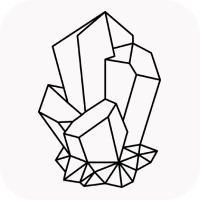
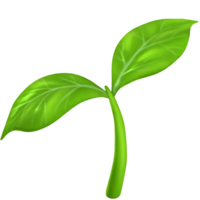
Quartz sync: Mar 17, 2025, 1:05 AM

Changed region(s): [[0.0, 0.03, 0.99, 1.0]]

diff --git a/quartz.config.ts b/quartz.config.ts
@@ -8,48 +8,48 @@ import * as Plugin from "./quartz/plugins"
  */
 const config: QuartzConfig = {
   configuration: {
-    pageTitle: "Quartz 4",
-    pageTitleSuffix: "",
+    pageTitle: "osaka's garden 🌱",
+    pageTitleSuffix: " | osaka garden",
     enableSPA: true,
     enablePopovers: true,
     analytics: {
       provider: "plausible",
     },
     locale: "en-US",
-    baseUrl: "quartz.jzhao.xyz",
+    baseUrl: "quartz.jzhao.xyz", // CHANGE LATER
     ignorePatterns: ["private", "templates", ".obsidian"],
     defaultDateType: "created",
     theme: {
       fontOrigin: "googleFonts",
       cdnCaching: true,
       typography: {
-        header: "Schibsted Grotesk",
-        body: "Source Sans Pro",
-        code: "IBM Plex Mono",
+        header: "Urbanist",
+        body: "Archivo",
+        code: "Ubuntu Mono"
       },
       colors: {
         lightMode: {
-          light: "#faf8f8",
-          lightgray: "#e5e5e5",
-          gray: "#b8b8b8",
-          darkgray: "#4e4e4e",
-          dark: "#2b2b2b",
-          secondary: "#284b63",
-          tertiary: "#84a59d",
-          highlight: "rgba(143, 159, 169, 0.15)",
-          textHighlight: "#fff23688",
+          light: "rgb(248, 248, 248)",
+          lightgray: "rgb(220, 220, 220)",
+          gray: "rgb(168, 168, 168)",
+          darkgray: "rgb(90, 90, 90)",
+          dark: "rgb(42, 42, 42)",
+          secondary: "rgb(0, 0, 0)",
+          tertiary: "rgb(36, 182, 0)",
+          highlight: "rgba(128, 128, 128, 0.15)",
+          textHighlight: "rgba(255, 255, 255, 0.53)"
         },
         darkMode: {
-          light: "#161618",
-          lightgray: "#393639",
-          gray: "#646464",
-          darkgray: "#d4d4d4",
-          dark: "#ebebec",
-          secondary: "#7b97aa",
-          tertiary: "#84a59d",
-          highlight: "rgba(143, 159, 169, 0.15)",
-          textHighlight: "#b3aa0288",
-        },
+          light: "rgb(0, 0, 0)",
+          lightgray: "rgb(58, 58, 58)",
+          gray: "rgb(112, 112, 112)",
+          darkgray: "rgb(168, 168, 168)",
+          dark: "rgb(255, 255, 255)",
+          secondary: "rgb(255, 255, 255)",
+          tertiary: "rgb(51, 255, 0)",
+          highlight: "rgba(81, 81, 81, 0.85)",
+          textHighlight: "rgba(192, 192, 192, 0.53)"
+        }
       },
     },
   },

diff --git a/quartz/i18n/locales/en-US.ts b/quartz/i18n/locales/en-US.ts
@@ -2,8 +2,8 @@ import { Translation } from "./definition"
 
 export default {
   propertyDefaults: {
-    title: "Untitled",
-    description: "No description provided",
+    title: "0xUNKNOWN",
+    description: "nothin to see here",
   },
   components: {
     callout: {
@@ -30,13 +30,13 @@ export default {
       darkMode: "Dark mode",
     },
     explorer: {
-      title: "Explorer",
+      title: "wiki",
     },
     footer: {
-      createdWith: "Created with",
+      createdWith: "fukkin made wit",
     },
     graph: {
-      title: "Graph View",
+      title: "graph view",
     },
     recentNotes: {
       title: "Recent Notes",
@@ -47,8 +47,8 @@ export default {
       linkToOriginal: "Link to original",
     },
     search: {
-      title: "Search",
-      searchBarPlaceholder: "Search for something",
+      title: "egosearch here",
+      searchBarPlaceholder: "type yo name xd",
     },
     tableOfContents: {
       title: "Table of Contents",
@@ -68,7 +68,7 @@ export default {
       home: "Return to Homepage",
     },
     folderContent: {
-      folder: "Folder",
+      folder: "archive",
       itemsUnderFolder: ({ count }) =>
         count === 1 ? "1 item under this folder." : `${count} items under this folder.`,
     },

diff --git a/content/wishing_skeleton/power.md b/content/wishing_skeleton/power.md
@@ -1,0 +1,24 @@
+---
+title: about me
+---
+# > whoami
+
+```bash
+name: "marcus osaka"
+username: "osakareaper"
+bio: "'03 kid, artist and developer."
+```
+
+# > cat interests.txt
+
+```bash
+interests:
+
+  - ai
+  - machine learning
+  - music production
+  - cybersecurity
+  - slasher movies
+  - horror movies
+```
+

diff --git a/content/index.md b/content/index.md
@@ -1,0 +1,17 @@
+---
+title: you visit the WISHING SKELETON
+---
+
+<div align="center">
+<img src="assets/wishing_skeleton.gif" alt="Wishing Skeleton" width="400" />
+</div>
+
+## will you make a WISH?
+
+<br />
+
+> 🗡️ WISH for [POWER](wishing_skeleton/power.md)
+
+> 🩸 WISH for [REVENGE](wishing_skeleton/revenge.md)
+
+> 🍀 WISH him [good luck](wishing_skeleton/good_luck.md)